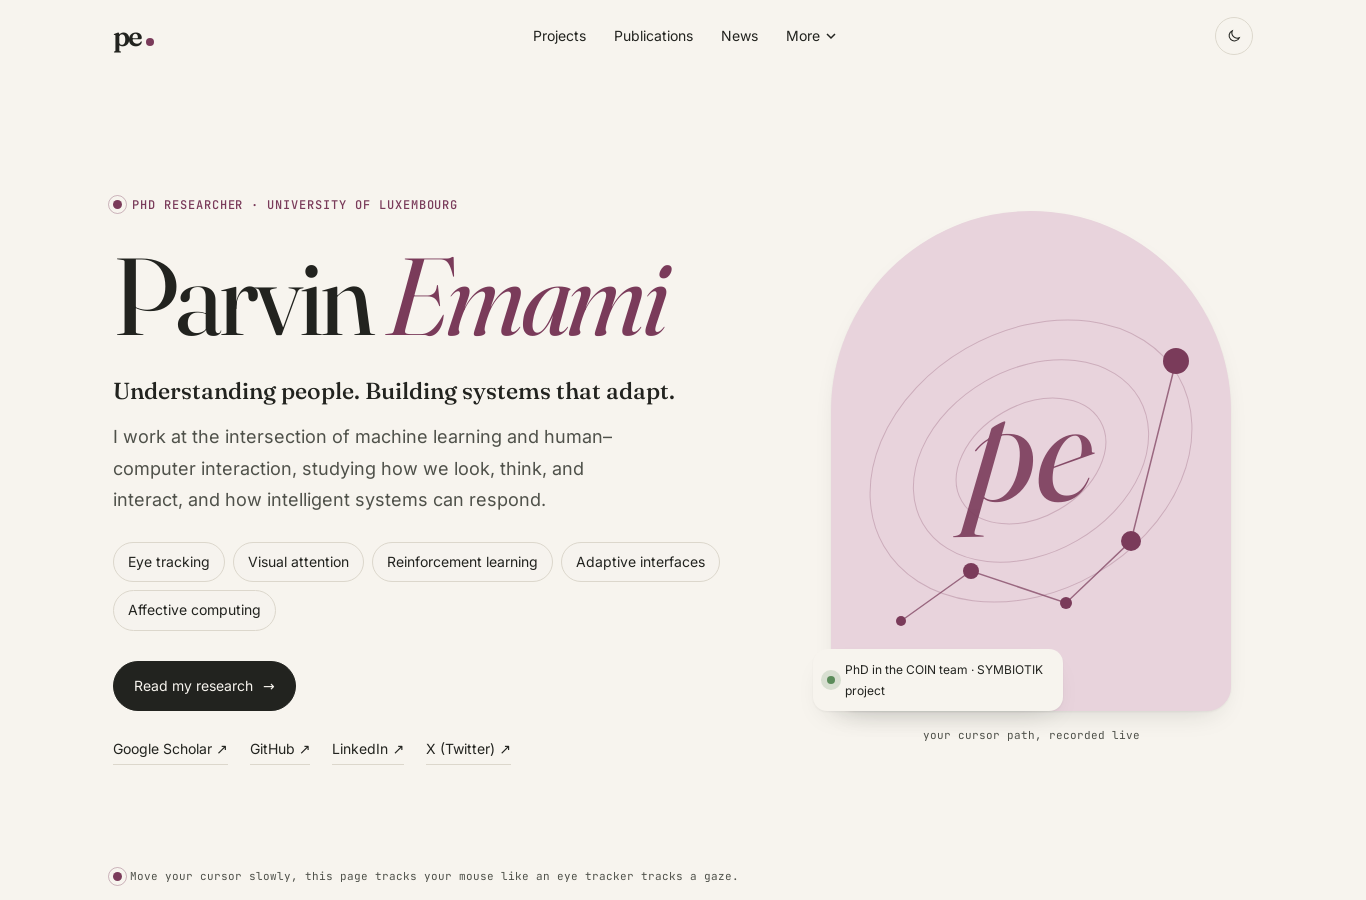
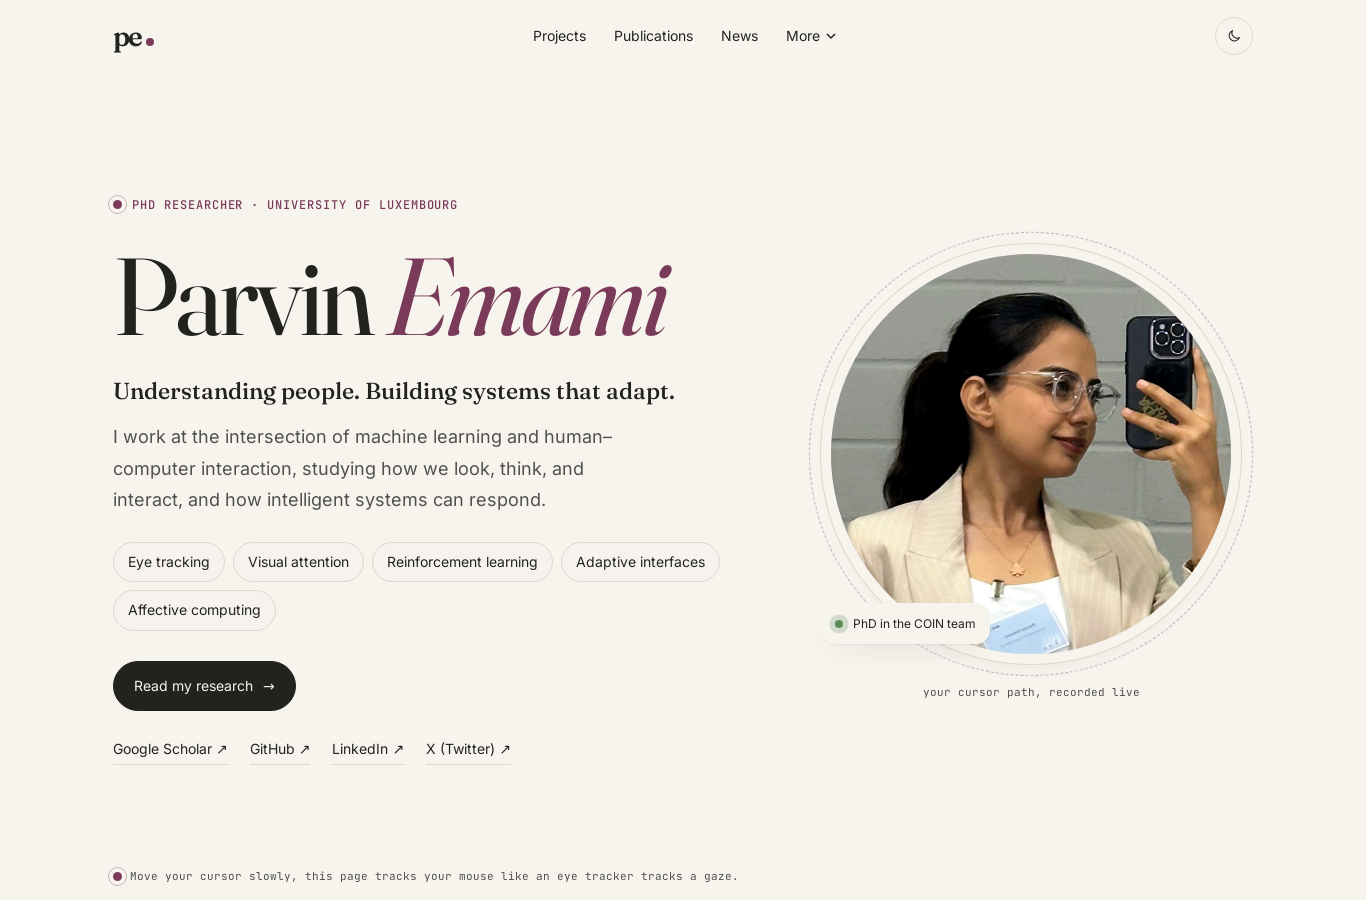
Add circular portrait, simplify status line

Changed region(s): [[0.5842, 0.2178, 0.9224, 0.84]]

diff --git a/assets/css/site.css b/assets/css/site.css
@@ -196,19 +196,25 @@ section.block { padding: clamp(40px, 6vw, 72px) 0; border-top: 1px solid var(--l
 
 .portrait { position: relative; justify-self: center; width: min(400px, 100%); }
 .portrait-frame {
-  position: relative; aspect-ratio: 4 / 5; border-radius: 200px 200px 24px 24px; overflow: hidden;
-  background: var(--plum); box-shadow: var(--shadow);
+  position: relative; aspect-ratio: 1; border-radius: 50%; overflow: hidden; background: var(--plum);
+  box-shadow: 0 0 0 10px var(--paper), 0 0 0 11px var(--line), var(--shadow);
 }
+.portrait::before { /* outer "fixation" ring around the photo */
+  content: ""; position: absolute; left: -22px; right: -22px; top: -22px; aspect-ratio: 1; border-radius: 50%;
+  border: 1px dashed var(--accent); opacity: .45; pointer-events: none;
+  animation: spin 60s linear infinite;
+}
+@keyframes spin { to { transform: rotate(360deg); } }
 .portrait-frame img { width: 100%; height: 100%; object-fit: cover; position: relative; z-index: 1; }
 .portrait-frame .monogram { position: absolute; inset: 0; display: grid; place-items: center; }
 .portrait-frame .monogram svg { width: 100%; height: 100%; }
 .portrait-tag {
-  position: absolute; left: -18px; bottom: 32px; z-index: 2; padding: 10px 14px; border-radius: 14px;
+  position: absolute; left: -10px; bottom: 56px; z-index: 2; padding: 10px 14px; border-radius: 14px;
   background: var(--paper); box-shadow: var(--shadow); font-size: 12px; max-width: 250px; display: flex; gap: 10px; align-items: center;
 }
 .portrait-tag .pulse { width: 8px; height: 8px; border-radius: 50%; background: #5b8c5a; flex: none; box-shadow: 0 0 0 0 rgba(91, 140, 90, .6); animation: pulse 2.4s infinite; }
 @keyframes pulse { 70% { box-shadow: 0 0 0 9px rgba(91, 140, 90, 0); } 100% { box-shadow: 0 0 0 0 rgba(91, 140, 90, 0); } }
-.portrait-caption { margin-top: 16px; font: 11px/1.5 var(--mono); color: var(--muted); text-align: center; }
+.portrait-caption { margin-top: 30px; font: 11px/1.5 var(--mono); color: var(--muted); text-align: center; }
 .gaze-hint { position: absolute; bottom: 18px; left: 0; font: 11px var(--mono); color: var(--muted); display: flex; gap: 8px; align-items: center; }
 
 /* ---------- Cards / grids ---------- */
@@ -363,7 +369,7 @@ a.card:hover { transform: translateY(-3px); box-shadow: var(--shadow); color: in
 @media (max-width: 820px) {
   .hero { min-height: auto; padding-top: 28px; }
   .hero-grid { grid-template-columns: 1fr; }
-  .portrait { order: -1; width: min(240px, 70%); justify-self: start; }
+  .portrait { order: -1; width: min(220px, 62%); justify-self: start; margin: 22px 0 0 22px; }
   .portrait-tag { left: auto; right: -12px; bottom: 16px; max-width: 200px; }
   .gaze-hint { display: none; }
   .grid-2 { grid-template-columns: 1fr; }

diff --git a/assets/js/data.js b/assets/js/data.js
@@ -16,7 +16,7 @@ window.SITE = {
     statement: "Understanding people. Building systems that adapt.",
     intro:
       "I work at the intersection of machine learning and human–computer interaction, studying how we look, think, and interact, and how intelligent systems can respond.",
-    now: "PhD in the COIN team · SYMBIOTIK project",
+    now: "PhD in the COIN team",
     links: [
       { label: "Google Scholar", icon: "scholar", url: "https://scholar.google.com/citations?hl=en&user=SHUgxekAAAAJ" },
       { label: "GitHub", icon: "github", url: "https://github.com/prviin" },

diff --git a/assets/js/main.js b/assets/js/main.js
@@ -161,7 +161,7 @@
 
   /* ---------------- Portrait (photo or drawn monogram) ---------------- */
   const MONOGRAM = `
-    <svg viewBox="0 0 400 500" aria-hidden="true">
+    <svg viewBox="0 0 400 500" preserveAspectRatio="xMidYMid slice" aria-hidden="true">
       <g fill="none" stroke="var(--accent)" stroke-opacity=".25">
         <ellipse cx="200" cy="250" rx="170" ry="130" transform="rotate(-30 200 250)"/>
         <ellipse cx="200" cy="250" rx="125" ry="92" transform="rotate(-30 200 250)"/>
